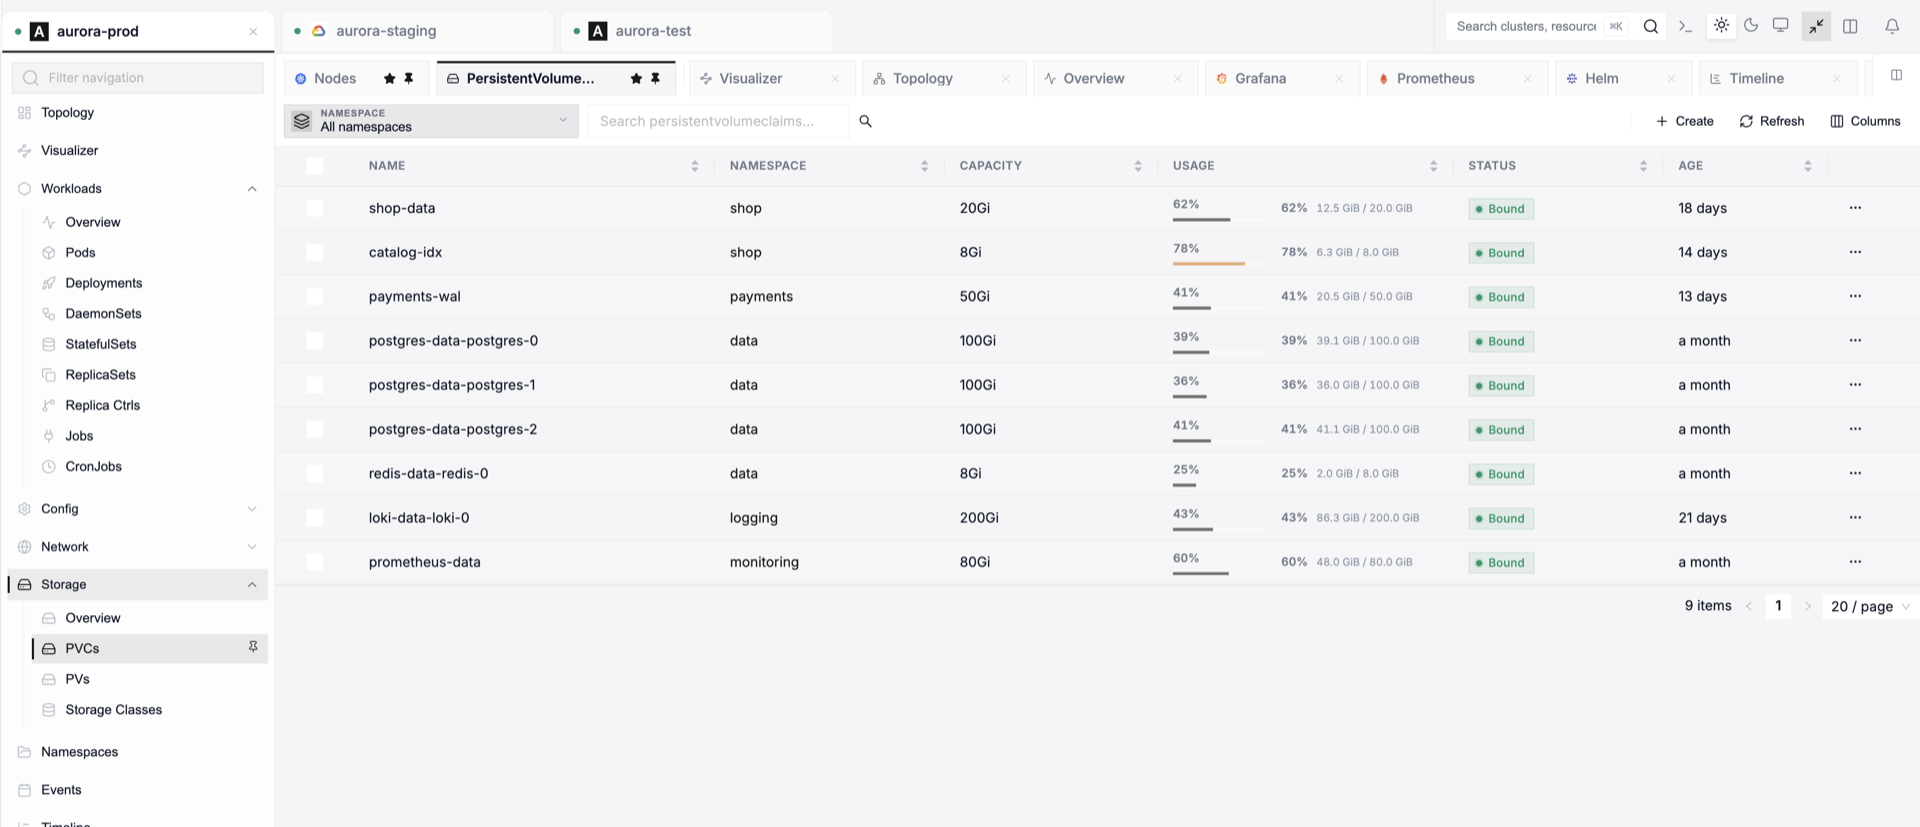
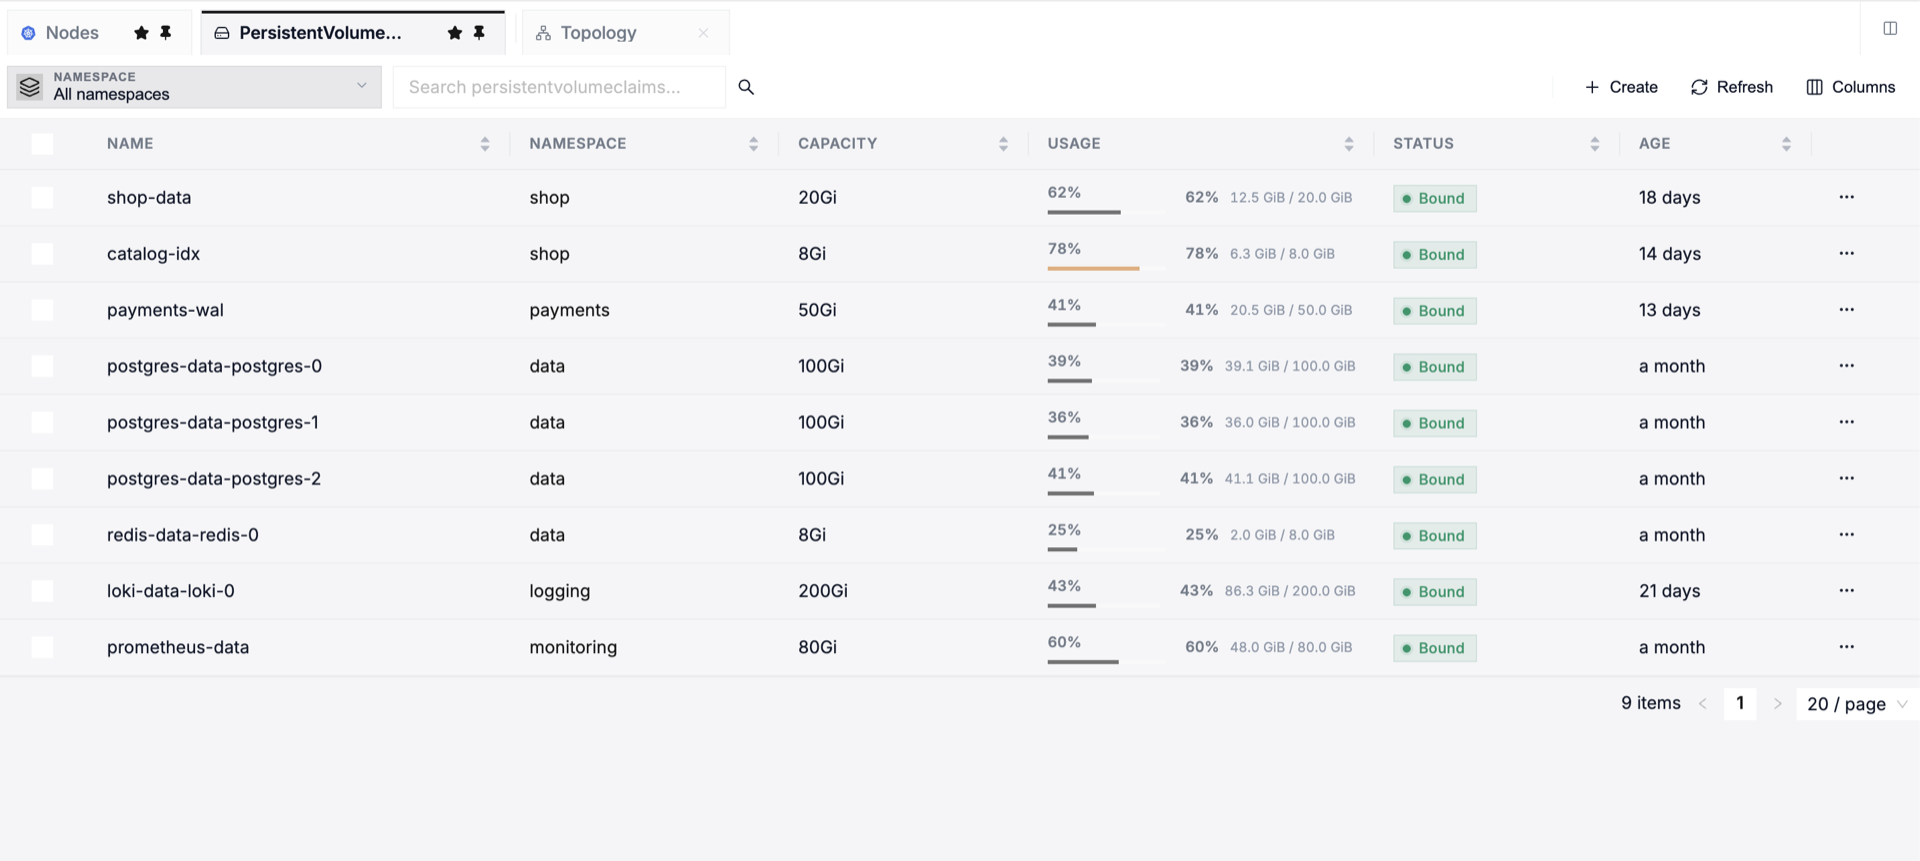
Expand the download-page README and refresh Topology, PVC, and workspace shots.
Describe cluster settings, Topology modes, storage metrics, Helm, and cluster apps in more detail.

diff --git a/README.md b/README.md
@@ -65,15 +65,77 @@ macOS builds are Developer ID signed and notarized. Windows installers are Authe
 
 ---
 
-## Clusters & workspaces
+## Clusters
 
-Scan a kubeconfig file or a folder of configs. Connect many clusters at once, pin favorites, and keep each context as a tab with its own namespace filter and last-opened resource.
-
-Workspaces group clusters the way your org actually works — Aurora, payments, edge, observability. Give a workspace a name, logo, accent colour, and an optional shortcut that expands it and opens its clusters. Duplicate contexts that share the same API server and credentials can be merged into one entry.
+Scan a kubeconfig file or a folder of configs. The default path is `~/.kube`; Settings can point at any file or directory. Connect many clusters at once, pin favorites, and keep each context as a tab with its own namespace filter and last-opened resource. Duplicate contexts that share the same API server and credentials can be merged into one entry.
 
 Cluster avatars use your custom logo when you set one. Otherwise MagicLens reads the kubeconfig (server URL, context name, exec plugin) and shows AWS, Google Cloud, Azure, or Huawei when it can tell.
 
-Each cluster has its own settings: environment tag, HTTP proxy, default namespace, pinned namespaces, Prometheus URL, terminal shell, node shell, and wallpaper.
+<p align="center">
+  <img src="docs/screenshots/magiclens-clusters.png" alt="MagicLens cluster list" width="920">
+</p>
+
+### Cluster settings
+
+Every cluster has its own **Edit Cluster** sheet — search the sections, then save. Settings stay with that context, not the whole app.
+
+**Appearance.** Display name and a custom logo (otherwise the letter tile or the detected cloud mark). Workspace background: ten built-in landscapes (Alpine Dawn, Ocean Horizon, Forest Mist, …) or upload PNG/JPEG. Panel transparency controls how see-through tables and menus are over the wallpaper.
+
+**General.** Read-only identity from the kubeconfig: context, API server, Kubernetes version, cluster id, connection status, last opened. Then tags, environment (`dev` / `staging` / `prod`), and free-text notes.
+
+**Proxy.** Optional HTTP/HTTPS proxy for API traffic, no-proxy hosts, basic auth, and failover to an alternate endpoint. Link a VPN profile so opening the cluster tab can bring the tunnel up; PIN and MFA stay on that profile.
+
+**Terminal.** Default shell, working directory, default namespace, sync `KUBECONFIG` / context on open, history, auto-complete, RBAC hints, multi-tab, extra `KEY=value` environment.
+
+**Namespaces.** Default namespace, pinned namespaces at the top of the selector, RBAC-based filtering, label grouping.
+
+**Metrics.** Prometheus source: auto-detect (API-server Service proxy) or a custom URL. Scrape interval, query timeout, HTTPS, authentication, path prefix, hide unused series, and Test / rediscover.
+
+**Node shell.** Privileged debug pod for `nsenter` on a node: image, pull policy / secret, CPU and memory limits, privileged / root, node selector, tolerations, cleanup TTL.
+
+**Integrations.** Auto-detect Grafana, Prometheus, and Argo CD Services. Leave the URL blank to port-forward in-cluster; paste an external URL to open that instead.
+
+Also per cluster: Lens Metrics (optional in-cluster stack), security (RBAC viewer, encrypt kubeconfig at rest, client audit), network notes (domain, CIDRs), storage defaults, performance (rate limit, cache, refresh, concurrency), UI density, and debug flags. The kubeconfig itself can be viewed, copied, or edited and saved for this cluster — reconnect to apply.
+
+<p align="center">
+  <img src="docs/screenshots/magiclens-cluster-appearance.png" alt="MagicLens cluster appearance" width="920">
+</p>
+
+<p align="center">
+  <img src="docs/screenshots/magiclens-cluster-general.png" alt="MagicLens cluster general settings" width="920">
+</p>
+
+<p align="center">
+  <img src="docs/screenshots/magiclens-cluster-proxy.png" alt="MagicLens cluster proxy settings" width="920">
+</p>
+
+<p align="center">
+  <img src="docs/screenshots/magiclens-cluster-metrics.png" alt="MagicLens cluster metrics settings" width="920">
+</p>
+
+---
+
+## Workspaces
+
+Workspaces group clusters the way your org actually works — production vs labs, a region, a product line. The sidebar lists every workspace, searchable, expandable, with a count in the header. Create one with **+**, then assign clusters. A cluster can live in a workspace; opening the workspace expands it and opens those clusters as tabs.
+
+**Name & logo.** Give the workspace a title and a square logo (or keep the letter tile). The logo appears in the sidebar next to every cluster in that group.
+
+**Colour.** Amber, blue, green, purple, pink, teal, red — or none. The accent tints the workspace header and its clusters so Aurora and Payments do not look the same at a glance. The same palette is used in the macOS menu-bar widget so a workspace and its cards stay one colour everywhere.
+
+**Clusters.** Multi-select which contexts belong here. Add or remove them later from Edit workspace. An empty workspace still shows in the list so you can fill it when the kubeconfig arrives.
+
+**Keyboard shortcut.** Assign `⌘`/`Ctrl` (or `Alt`) plus a key. That shortcut expands the workspace and opens its clusters. The same bindings are listed under Settings → Keyboard. Conflicting shortcuts swap automatically. Clear the binding if you only want the mouse.
+
+**Sidebar.** Collapse a workspace to hide its clusters. Collapse the whole Workspaces section in Settings → Display. Hover menus on the workspace header cover edit and delete. Search filters workspace names as you type.
+
+<p align="center">
+  <img src="docs/screenshots/magiclens-workspaces-list.png" alt="MagicLens workspaces sidebar" width="420">
+</p>
+
+<p align="center">
+  <img src="docs/screenshots/magiclens-workspace-edit.png" alt="MagicLens edit workspace" width="520">
+</p>
 
 <p align="center">
   <img src="docs/screenshots/magiclens-workspaces.png" alt="MagicLens workspaces and nodes overview" width="920">
@@ -161,16 +223,18 @@ Local terminals inherit that cluster’s kubeconfig context, default namespace, 
 
 ## Storage & metrics
 
-PVC tables show capacity, used bytes, and percent full when Prometheus scrapes `kubelet_volume_stats_*`. PersistentVolumes and StorageClasses (provisioner, reclaim policy, age) sit in the same Storage section.
+The Storage sidebar has an overview plus PVCs, PVs, and StorageClasses. The PVC table lists capacity, used bytes, percent full, Bound status, and age. Bars turn amber when a volume is filling up so you see `catalog-idx` at 78% before it pages.
 
-Live CPU and memory come from metrics-server (nodes and pods). Historical charts, disk fullness, and node pressure need Prometheus — auto-discovered through the API-server service proxy, or a URL you set on the cluster. If Prometheus is missing, live metrics still work; history simply stays empty.
+Open a claim for a Metrics tab: used / capacity / free, a fullness bar, volume fullness over time, and bytes used over time. Those series need Prometheus scraping `kubelet_volume_stats_*`. PersistentVolumes and StorageClasses (provisioner, reclaim policy) sit next to the claims.
+
+Live CPU and memory on nodes and pods come from metrics-server. Historical charts, disk fullness, and node pressure need Prometheus — auto-discovered through the API-server Service proxy, or a URL on the cluster. If Prometheus is missing, live metrics still work; history stays empty.
 
 <p align="center">
   <img src="docs/screenshots/magiclens-storage.png" alt="MagicLens PersistentVolumeClaims" width="920">
 </p>
 
 <p align="center">
-  <img src="docs/screenshots/magiclens-storageclasses.png" alt="MagicLens StorageClasses" width="920">
+  <img src="docs/screenshots/magiclens-pvc-metrics.png" alt="MagicLens PVC usage metrics" width="920">
 </p>
 
 <p align="center">
@@ -181,9 +245,17 @@ Live CPU and memory come from metrics-server (nodes and pods). Historical charts
 
 ## Visualizer & Topology
 
-**Visualizer** is a cluster-wide map: namespaces and Helm releases as groups, workloads and services as cards, brand icons from the container image (nginx, postgres, redis, Argo, …). Click a card for the full resource detail. It is a separate page from Topology — both stay in the sidebar.
+**Visualizer** is a cluster-wide map. Namespaces and Helm releases become groups; workloads and services become cards with brand icons from the container image (nginx, postgres, redis, Argo, Grafana, …). Ingress and egress marks sit on the card. Click a card for the full resource drawer. Visualizer is its own page — Topology stays in the sidebar.
 
-**Topology** is the namespace graph: Deployments, Services, Ingresses, and volumes, with health on the nodes so you can jump from an application to its live dependencies.
+**Topology** is a live map of one namespace: how a Deployment owns a ReplicaSet, how that ReplicaSet owns Pods, how a Service selects those pods, how an Ingress routes to the Service, and how pods mount ConfigMaps. Edges are labelled owns / selects / routes / mounts. Health colours follow ready replicas (a 1/2 Deployment is degraded).
+
+Three modes:
+
+- **Topology** — the graph, with a minimap and Insights (crash loops, empty services, orphan ingresses, zero-ready workloads).
+- **Applications** — cards grouped by `app` / `app.kubernetes.io/instance`, with replica summary and error count. Click a card to focus that subgraph.
+- **Resources** — a filterable table (name, kind, health, replicas, age) of the same nodes.
+
+Pick a concrete namespace (`shop`, `payments`, `data`). All namespaces is disabled — the graph would be too large. Open the graph in a separate window if you want it on a second display.
 
 <p align="center">
   <img src="docs/screenshots/magiclens-visualizer.png" alt="MagicLens Visualizer map" width="920">
@@ -193,11 +265,19 @@ Live CPU and memory come from metrics-server (nodes and pods). Historical charts
   <img src="docs/screenshots/magiclens-topology.png" alt="MagicLens topology map" width="920">
 </p>
 
+<p align="center">
+  <img src="docs/screenshots/magiclens-topology-graph.png" alt="MagicLens topology graph detail" width="920">
+</p>
+
+<p align="center">
+  <img src="docs/screenshots/magiclens-topology-resources.png" alt="MagicLens topology resources" width="920">
+</p>
+
 ---
 
 ## Timeline
 
-Recent cluster events as a Gantt. Filter by namespace, kind, and warning vs normal. Density on the top strip shows when the cluster was noisy. Hover a bar for reason and message — the same events you would `kubectl get events` for, laid out in time.
+Recent namespaced events as a Gantt, grouped by the object they belong to (Deployment, Pod, Job). Filter by namespace, kind, warning vs normal, and a search over reason / message. The density strip on top shows when the cluster was noisy. Hover a bar for reason, message, and count — the same stream as `kubectl get events`, laid out in time instead of a dump. A 30-minute window is the default; zoom the axis when you need a longer stretch.
 
 <p align="center">
   <img src="docs/screenshots/magiclens-timeline.png" alt="MagicLens event timeline" width="920">
@@ -207,7 +287,11 @@ Recent cluster events as a Gantt. Filter by namespace, kind, and warning vs norm
 
 ## Helm
 
-Browse installed charts and releases. Open a release for values (YAML), owned resources, history, rollback, and uninstall. The catalog searches known repos so you can inspect a chart, edit values, and install without leaving the app.
+One page, two tabs: **Charts** and **Releases**.
+
+The catalog searches known repos. Open a chart for description, versions, prerequisites, and values YAML; set a release name and namespace, then deploy. Installed charts also appear as a summary (how many releases, which namespaces).
+
+A release opens notes, owned resources (Deployment / Service / ConfigMap), history, values, rollback, upgrade, and uninstall. Demo and live clusters use the same editor so a values tweak and a rollback stay in one place.
 
 <p align="center">
   <img src="docs/screenshots/magiclens-helm.png" alt="MagicLens Helm chart catalog" width="920">
@@ -221,9 +305,11 @@ Browse installed charts and releases. Open a release for values (YAML), owned re
 
 ## Argo CD, Grafana & Prometheus
 
-Argo CD is first-class: dashboard, Applications, ApplicationSets, projects, repositories, and clusters, read from `argoproj.io` CRDs. Sync or refresh one app or many — no extra Argo API URL or token.
+Argo CD is first-class in the sidebar: dashboard, Applications, ApplicationSets, projects, repositories, and clusters, read from `argoproj.io` CRDs. Sync or refresh one app or many — no extra Argo API URL or token.
 
-Grafana and Prometheus open as cluster apps when MagicLens finds the Service (or you paste a URL). Sessions stay alive via port-forward; you can also set a manual URL, username, and password per cluster.
+**Web UI** opens the in-cluster Argo / Grafana / Prometheus Service through a local port-forward (or a URL you set). Credentials are read from a Secret when MagicLens can find them; you can also paste username and password. The toolbar shows the forwarded address and Open / Refresh. Sessions stay alive while the tab is open.
+
+If the Service is missing, Edit Cluster → Integrations lets you save an external URL and try again.
 
 <p align="center">
   <img src="docs/screenshots/magiclens-grafana.png" alt="MagicLens Grafana cluster app" width="920">
@@ -241,13 +327,15 @@ Grafana and Prometheus open as cluster apps when MagicLens finds the Service (or
 
 ## Port forwarding
 
-Forward a Pod or Service to a local port in a couple of clicks. Every open tunnel — across all clusters — is listed in Settings → Port Forwarding. Idle forwards can close themselves after 15 minutes to 4 hours, or never.
+Forward a Pod or Service to a local port from the resource detail (Port Forward tab) or from the Service table. MagicLens picks a free local port unless you set one. Every open tunnel — across all clusters — is listed in Settings → Port Forwarding; stop any of them from there.
+
+Idle forwards can close themselves after 15 minutes, 30 minutes, 1 hour, 2 hours, 4 hours, or never. That timeout is global so a forgotten `kubectl port-forward` equivalent does not sit forever.
 
 ---
 
 ## Split view
 
-Keep two cluster tabs side by side: Visualizer vs Nodes, Deployments vs Pods, staging vs production. Each pane has its own resource and namespace. Toggle with `⌘\` / `Ctrl+\` (configurable).
+Keep two cluster tabs side by side: Visualizer vs Nodes, Deployments vs Pods, staging vs production. Each pane has its own resource, namespace filter, and detail drawer. Focus follows the pane you click. Toggle with `⌘\` / `Ctrl+\` (configurable). Exit split to return to a single tab strip.
 
 <p align="center">
   <img src="docs/screenshots/magiclens-split.png" alt="MagicLens split view" width="920">
